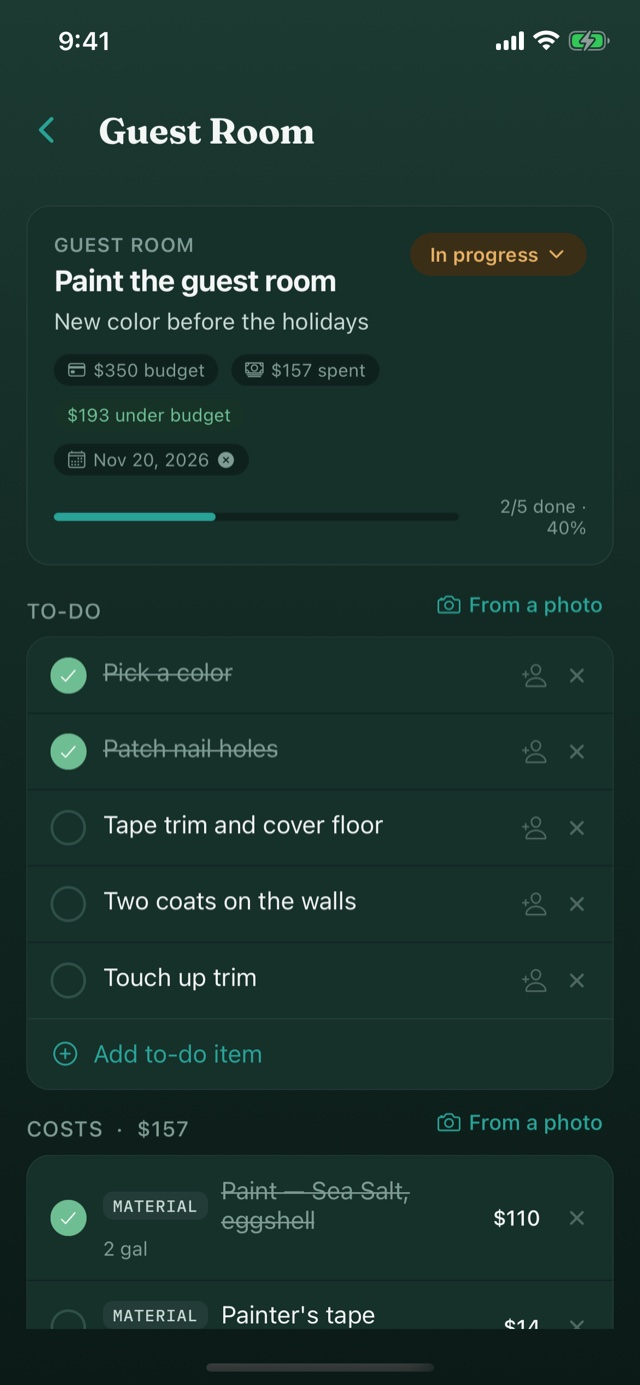
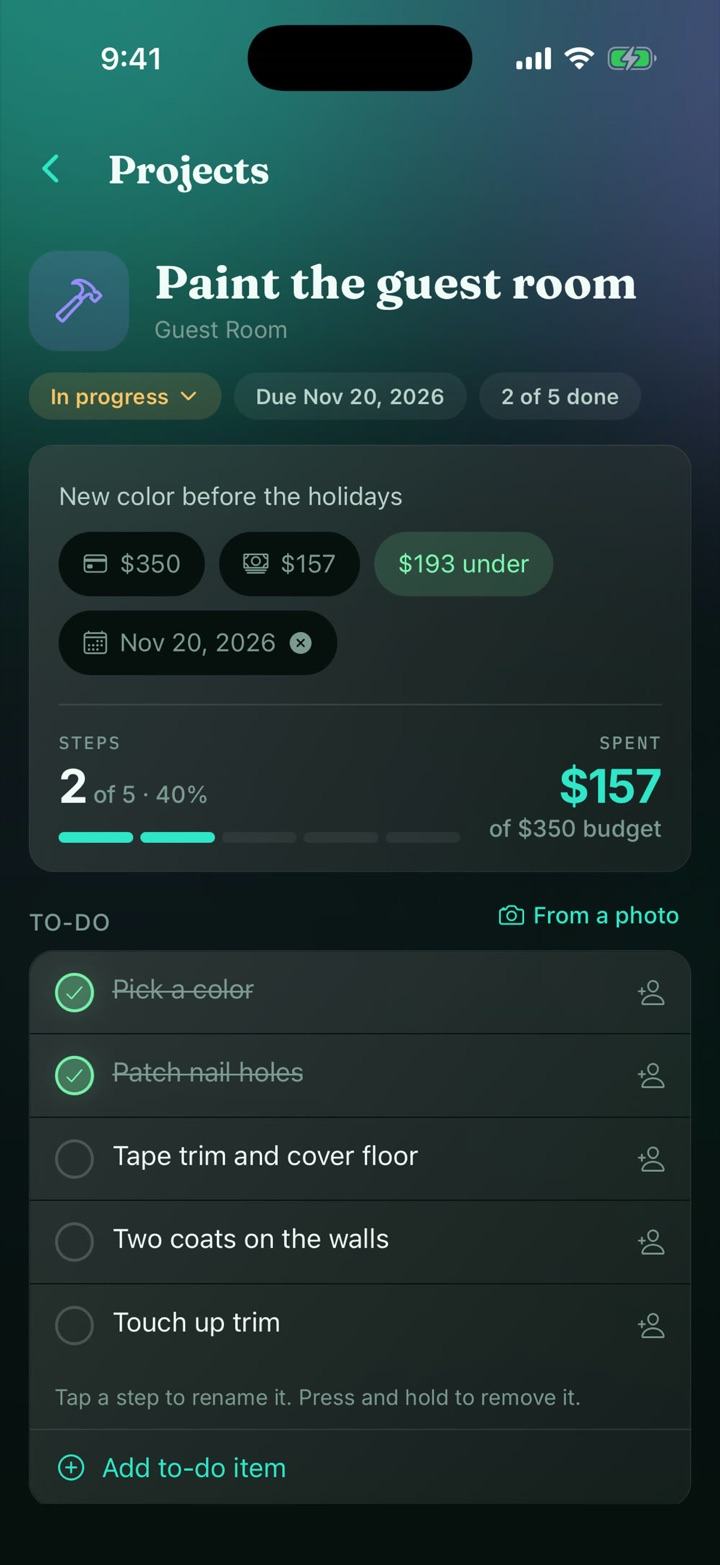
fix(site): match the GetToIt section to the current gettoithome.com
The first pass used old screenshots, the old icon and the ink palette
from a stale local copy. gettoithome.com now uses the aurora look, a
new icon and new screens, and says iPhone and iPad with Android still
in the works, so the section, cards and intro now follow it.

diff --git a/index.html b/index.html
@@ -4,12 +4,15 @@
 <meta charset="utf-8">
 <meta name="viewport" content="width=device-width, initial-scale=1">
 <title>Piece of Tech LLC · Apps for life at home</title>
-<meta name="description" content="Piece of Tech LLC is an independent software company that designs, builds and publishes apps for iPhone, iPad and Android, including GetToIt Home Management and Dinner Party.">
+<meta name="description" content="Piece of Tech LLC is an independent software company that designs, builds and publishes apps for iPhone and iPad, including GetToIt Home Management and Dinner Party.">
 <meta property="og:title" content="Piece of Tech LLC">
 <meta property="og:description" content="An independent software company making GetToIt Home Management and Dinner Party.">
 <meta property="og:url" content="https://pieceoftech.app/">
 <meta property="og:type" content="website">
 <link rel="canonical" href="https://pieceoftech.app/">
+<link rel="preconnect" href="https://fonts.googleapis.com">
+<link rel="preconnect" href="https://fonts.gstatic.com" crossorigin>
+<link href="https://fonts.googleapis.com/css2?family=Fraunces:opsz,wght@9..144,600&family=Inter:wght@400;600&family=IBM+Plex+Mono:wght@500&display=swap" rel="stylesheet">
 <style>
   :root { --bg:#fbfaf7; --fg:#1d1d1b; --muted:#5f5e5a; --line:#e4e1d9; --panel:#ffffff; --accent:#2f6f4e; }
   @media (prefers-color-scheme: dark) {
@@ -64,32 +67,38 @@
     .about-grid { grid-template-columns:1fr; gap:2rem; }
   }
 
-  /* GetToIt showcase. Uses the app's own ink and teal palette. */
-  .gt { --gt-bg:#0F211D; --gt-panel:#16302A; --gt-border:#2A4A42; --gt-ink:#F3F6F4;
-        --gt-muted:#C7D9D3; --gt-soft:#8FAAA2; --gt-accent:#7BDCCF; --gt-teal:#29A398;
-        background:var(--gt-bg); color:var(--gt-ink); font-size:18px; line-height:1.55; }
+  /* GetToIt showcase. Matches gettoithome.com: aurora glow on near-black, glass cards, Fraunces headings. */
+  .gt { --gt-ground:#06100E; --gt-glow:46, 230, 200; --gt-border:rgba(255,255,255,.14); --gt-ink:#F3F6F4;
+        --gt-muted:#C7D9D3; --gt-soft:#8FAAA2; --gt-accent:#2EE6C8;
+        background:
+          radial-gradient(1100px 640px at 4% -14%, rgba(32,139,130,.95), transparent 64%),
+          radial-gradient(900px 600px at 100% -8%, rgba(68,88,119,.95), transparent 62%),
+          var(--gt-ground);
+        color:var(--gt-ink); font-family:Inter, -apple-system, BlinkMacSystemFont, "Segoe UI", sans-serif; font-size:18px; line-height:1.55; }
   .gt-inner { max-width:64rem; margin:0 auto; padding:4.5rem 1.5rem; }
   .gt a { color:var(--gt-ink); text-decoration-color:var(--gt-accent); text-decoration-thickness:2px; text-underline-offset:3px; }
   .gt a:focus-visible { outline:2px solid var(--gt-accent); }
   .gt-hero { display:grid; grid-template-columns:minmax(0,1fr) auto; gap:3.5rem; align-items:center; }
   .gt-brand { display:flex; align-items:center; gap:.9rem; margin:0 0 1.75rem; }
   .gt-brand img { width:56px; height:56px; border-radius:13px; border:1px solid var(--gt-border); display:block; }
-  .gt-brand span { font-size:.8rem; letter-spacing:.24em; text-transform:uppercase; color:var(--gt-accent); }
-  .gt h2 { font-family:"Iowan Old Style", "Palatino Linotype", Palatino, Georgia, serif; font-size:clamp(2.1rem, 5vw, 3.1rem);
-           line-height:1.1; font-weight:600; letter-spacing:-.01em; margin:0 0 1.1rem; text-wrap:balance; }
+  .gt-brand span { font-family:"IBM Plex Mono", ui-monospace, monospace; font-size:.75rem; letter-spacing:.18em; text-transform:uppercase; color:#7BDCCF; }
+  .gt h2 { font-family:Fraunces, Georgia, serif; font-size:clamp(2.3rem, 5.5vw, 3.6rem);
+           line-height:1.05; font-weight:600; letter-spacing:-.015em; margin:0 0 1.1rem; text-wrap:balance; }
   .gt-dek { font-size:1.15rem; color:var(--gt-muted); margin:0 0 1.75rem; max-width:34rem; }
-  .gt-cta { display:inline-block; background:var(--gt-teal); color:#fff !important; font-weight:600; text-decoration:none;
-            border-radius:12px; padding:.7rem 1.3rem; margin:0 .75rem 1.5rem 0; }
-  .gt-cta:hover { background:#0E5C57; }
+  .gt-cta { display:inline-block; font-weight:600; text-decoration:none; border-radius:12px; padding:.7rem 1.3rem; margin:0 .9rem 1rem 0;
+            background:rgba(var(--gt-glow), .2); border:1px solid rgba(var(--gt-glow), .85); color:var(--gt-accent) !important;
+            box-shadow:0 0 20px rgba(var(--gt-glow), .32); transition:background .15s, box-shadow .15s; }
+  .gt-cta:hover { background:rgba(var(--gt-glow), .3); box-shadow:0 0 28px rgba(var(--gt-glow), .5); }
   .gt-plat { color:var(--gt-soft); font-size:.95rem; }
-  .gt .phone img { border-color:#08130f; background:#08130f; outline-color:var(--gt-border); aspect-ratio:640/1385; }
+  .gt .phone img { border-color:#050c0a; background:#050c0a; outline-color:var(--gt-border);
+                   box-shadow:0 30px 60px rgba(0,0,0,.4), 0 0 90px rgba(var(--gt-glow), .14); }
   .gt-hero .phone { width:17.5rem; }
-  .gt h3 { font-size:.8rem; letter-spacing:.2em; text-transform:uppercase; font-weight:500; color:var(--gt-soft);
+  .gt h3 { font-family:"IBM Plex Mono", ui-monospace, monospace; font-size:.75rem; letter-spacing:.2em; text-transform:uppercase; font-weight:500; color:var(--gt-soft);
            margin:4.5rem 0 1.5rem; display:flex; align-items:center; gap:1rem; }
   .gt h3::after { content:""; flex:1; height:1px; background:var(--gt-border); }
   .gt-shots { display:grid; grid-template-columns:repeat(4, minmax(0,1fr)); gap:1.5rem; }
-  .gt-shots figcaption { margin-top:1rem; }
-  .gt-shots strong { display:block; font-weight:600; font-size:1.05rem; }
+  .gt-shots figcaption { margin-top:1.1rem; }
+  .gt-shots strong { display:block; font-family:Fraunces, Georgia, serif; font-weight:600; font-size:1.15rem; }
   .gt-shots small { display:block; color:var(--gt-muted); font-size:.92rem; line-height:1.45; margin-top:.2rem; }
   .gt-foot { margin:3.5rem 0 0; padding-top:1.5rem; border-top:1px solid var(--gt-border); color:var(--gt-muted); font-size:.95rem; }
   @media (max-width: 900px) { .gt-shots { grid-template-columns:repeat(2, minmax(0,1fr)); } }
@@ -189,7 +198,7 @@
 <section class="wrap intro" aria-labelledby="intro-title">
   <p class="eyebrow">Piece of Tech LLC</p>
   <h1 id="intro-title">Small, careful apps for the everyday work of running a home.</h1>
-  <p class="lead">We are an independent software company. We design, build and publish apps for iPhone, iPad and Android that help households keep up with the house and get dinner on the table.</p>
+  <p class="lead">We are an independent software company. We design, build and publish apps for iPhone and iPad that help households keep up with the house and get dinner on the table.</p>
 </section>
 
 <section class="wrap apps" aria-label="Our apps">
@@ -199,7 +208,7 @@
       <h2>GetToIt Home Management</h2>
       <p class="kind">Home maintenance, shared lists and projects</p>
       <p>Reminders for the small jobs, lists the whole household shares, and projects from first idea to done.</p>
-      <span class="status">Early access · iPhone, iPad and Android</span>
+      <span class="status">Early access · iPhone and iPad</span>
     </div>
   </a>
   <a class="app-card" href="#dinner-party">
@@ -221,30 +230,30 @@
         <h2 id="gt-title">The thing your home needs.</h2>
         <p class="gt-dek">GetToIt keeps track of the jobs a house asks of you, from furnace filters to the hardware store list, and shares it all with everyone who lives there. Tell it your home type and your seasonal checklist is already filled in.</p>
         <a class="gt-cta" href="https://gettoithome.com/">Visit gettoithome.com</a>
-        <span class="gt-plat">iPhone, iPad and Android · Early access</span>
+        <span class="gt-plat">iPhone and iPad · Early access · Android in the works</span>
       </div>
       <figure class="phone">
-        <img src="assets/gettoit/home.jpg" width="640" height="1385"
-             alt="The GetToIt home screen: three tasks due this week, a hardware store list with 3 of 5 items left, and shared lists for the household.">
+        <img src="assets/gettoit/home.jpg" width="720" height="1565"
+             alt="The GetToIt home screen: a greeting, fall progress, three tasks due this week, a pinned list, and shared lists.">
       </figure>
     </div>
 
     <h3>A look inside</h3>
     <div class="gt-shots">
       <figure class="phone">
-        <img loading="lazy" src="assets/gettoit/tasks.jpg" width="640" height="1385" alt="The Tasks screen listing upcoming home maintenance jobs by date.">
+        <img loading="lazy" src="assets/gettoit/tasks.jpg" width="720" height="1565" alt="Tasks sorted into this week, the next 30 days, and upcoming.">
         <figcaption><strong>No more remembering</strong><small>What's due this week and what's coming up, so the house isn't living in your head.</small></figcaption>
       </figure>
       <figure class="phone">
-        <img loading="lazy" src="assets/gettoit/list.jpg" width="640" height="1385" alt="A shared shopping list with some items checked off.">
-        <figcaption><strong>Lists everyone shares</strong><small>Check something off at the store and it's checked off at home, right away.</small></figcaption>
+        <img loading="lazy" src="assets/gettoit/list.jpg" width="720" height="1565" alt="A shared Thanksgiving groceries list with items to tick off.">
+        <figcaption><strong>Lists everyone shares</strong><small>Check something off at the store and it's checked off at home. See who has it open right now.</small></figcaption>
       </figure>
       <figure class="phone">
-        <img loading="lazy" src="assets/gettoit/project.jpg" width="640" height="1385" alt="A home project with its steps, supplies and budget.">
-        <figcaption><strong>Projects, start to finish</strong><small>Steps, supplies, budget and who's doing what, all in one place.</small></figcaption>
+        <img loading="lazy" src="assets/gettoit/project.jpg" width="720" height="1565" alt="A painting project with steps, a budget, and a shopping list.">
+        <figcaption><strong>Projects, start to finish</strong><small>Steps, costs, budget and who's doing what. The total adds itself up as you go.</small></figcaption>
       </figure>
       <figure class="phone">
-        <img loading="lazy" src="assets/gettoit/recommended.jpg" width="640" height="1385" alt="Recommended seasonal tasks for the home, ready to add.">
+        <img loading="lazy" src="assets/gettoit/recommended.jpg" width="720" height="1565" alt="Recommended tasks grouped by area, each one tap to add.">
         <figcaption><strong>A head start</strong><small>Seasonal checklists for your type of home. Add what's yours, skip what isn't.</small></figcaption>
       </figure>
     </div>
